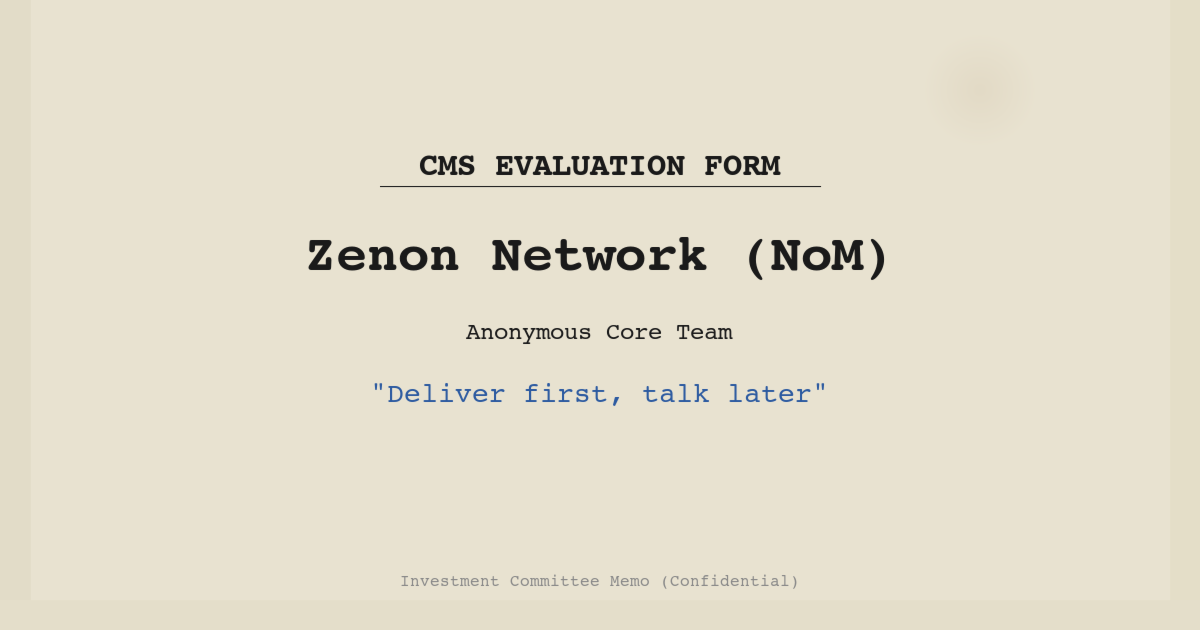
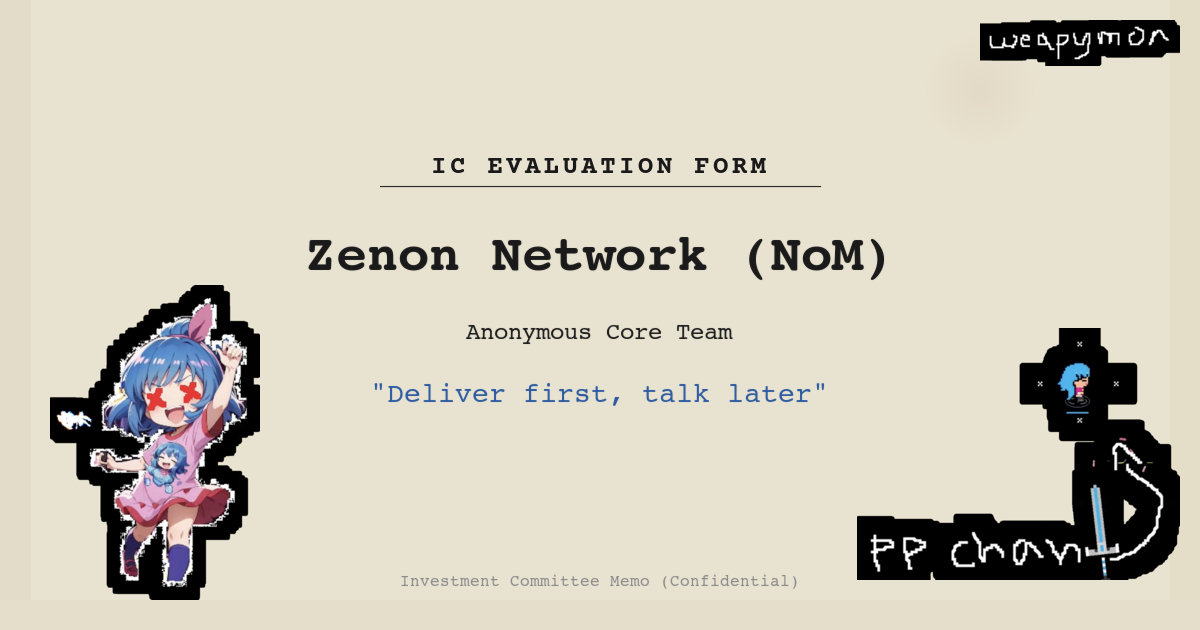
Update base path and URLs for custom domain deployment
Change Vite base from /nom-IC-memo/ to / and update all URLs
from GitHub Pages to deeznnutz.com. Rename CMS to IC in titles.
Resolve merge conflict with Cloudflare Workers config.

diff --git a/index.html b/index.html
@@ -4,43 +4,43 @@
     <meta charset="UTF-8" />
     <meta name="viewport" content="width=device-width, initial-scale=1.0" />
 
-    <title>CMS Evaluation Form — Zenon Network (NoM) | Investment Committee Memo</title>
-    <meta name="description" content="A vintage 1970s-style CMS Evaluation Form for Zenon Network (NoM) — Layer-1 Network of Momentum featuring feeless dual-ledger DLT, Bitcoin interoperability, and community governance." />
+    <title>IC Evaluation Form — Zenon Network (NoM) | Investment Committee Memo</title>
+    <meta name="description" content="A vintage 1970s-style IC Evaluation Form for Zenon Network (NoM) — Layer-1 Network of Momentum featuring feeless dual-ledger DLT, Bitcoin interoperability, and community governance." />
     <meta name="keywords" content="Zenon Network, NoM, Network of Momentum, ZNN, QSR, dual-ledger, meta-DAG, block-lattice, feeless, DLT, Bitcoin interoperability, decentralized, cryptocurrency, evaluation form" />
     <meta name="author" content="Zenon Network Community" />
     <meta name="robots" content="index, follow" />
-    <link rel="canonical" href="https://0x3639.github.io/nom-IC-memo/" />
+    <link rel="canonical" href="https://deeznnutz.com/" />
 
     <!-- Open Graph -->
     <meta property="og:type" content="website" />
-    <meta property="og:title" content="CMS Evaluation Form — Zenon Network (NoM)" />
+    <meta property="og:title" content="IC Evaluation Form — Zenon Network (NoM)" />
     <meta property="og:description" content="Investment committee evaluation memo for Zenon Network — a Layer-1 feeless dual-ledger DLT with Bitcoin interoperability and community governance. Modeled after the famous 1977 Apple Computer evaluation form." />
-    <meta property="og:image" content="https://0x3639.github.io/nom-IC-memo/og-image.png" />
+    <meta property="og:image" content="https://deeznnutz.com/og-image.png" />
     <meta property="og:image:width" content="1200" />
     <meta property="og:image:height" content="630" />
-    <meta property="og:image:alt" content="CMS Evaluation Form for Zenon Network — vintage typewriter style document on aged paper" />
-    <meta property="og:url" content="https://0x3639.github.io/nom-IC-memo/" />
+    <meta property="og:image:alt" content="IC Evaluation Form for Zenon Network — vintage typewriter style document on aged paper" />
+    <meta property="og:url" content="https://deeznnutz.com/" />
     <meta property="og:site_name" content="Zenon Network IC Memo" />
 
     <!-- Twitter Card -->
     <meta name="twitter:card" content="summary_large_image" />
-    <meta name="twitter:title" content="CMS Evaluation Form — Zenon Network (NoM)" />
+    <meta name="twitter:title" content="IC Evaluation Form — Zenon Network (NoM)" />
     <meta name="twitter:description" content="Investment committee evaluation memo for Zenon Network — Layer-1 feeless dual-ledger DLT with Bitcoin interoperability. Modeled after the 1977 Apple Computer evaluation form." />
-    <meta name="twitter:image" content="https://0x3639.github.io/nom-IC-memo/og-image.png" />
-    <meta name="twitter:image:alt" content="CMS Evaluation Form for Zenon Network — vintage typewriter style document on aged paper" />
+    <meta name="twitter:image" content="https://deeznnutz.com/og-image.png" />
+    <meta name="twitter:image:alt" content="IC Evaluation Form for Zenon Network — vintage typewriter style document on aged paper" />
 
     <!-- Favicon -->
-    <link rel="icon" type="image/svg+xml" href="/nom-IC-memo/favicon.svg" />
+    <link rel="icon" type="image/svg+xml" href="/favicon.svg" />
 
     <!-- Structured Data -->
     <script type="application/ld+json">
     {
       "@context": "https://schema.org",
       "@type": "WebPage",
-      "name": "CMS Evaluation Form — Zenon Network (NoM)",
+      "name": "IC Evaluation Form — Zenon Network (NoM)",
       "description": "A vintage 1970s-style investment committee evaluation memo for Zenon Network, a Layer-1 feeless dual-ledger DLT with Bitcoin interoperability.",
-      "url": "https://0x3639.github.io/nom-IC-memo/",
-      "image": "https://0x3639.github.io/nom-IC-memo/og-image.png",
+      "url": "https://deeznnutz.com/",
+      "image": "https://deeznnutz.com/og-image.png",
       "about": {
         "@type": "Organization",
         "name": "Zenon Network",

diff --git a/src/App.jsx b/src/App.jsx
@@ -170,7 +170,7 @@ function App() {
 
         {/* Approved stamp */}
         <img
-          src="/nom-IC-memo/approved-stamp.webp"
+          src="/approved-stamp.webp"
           alt=""
           className="absolute top-[45px] right-[25px] w-[130px] h-[130px] pointer-events-none rotate-[-12deg]"
           style={{ opacity: 0.35 }}
@@ -185,7 +185,7 @@ function App() {
 
         {/* Title */}
         <h1 className="text-center font-typewriter font-bold text-[19px] tracking-[3px] underline underline-offset-4 text-ink mb-5">
-          CMS EVALUATION FORM
+          IC EVALUATION FORM
         </h1>
 
         {/* Row 1: Company / Date */}

diff --git a/zenon_evaluation_form.html b/zenon_evaluation_form.html
@@ -3,7 +3,7 @@
 <head>
 <meta charset="UTF-8">
 <meta name="viewport" content="width=device-width, initial-scale=1.0">
-<title>CMS Evaluation Form — Zenon Network</title>
+<title>IC Evaluation Form — Zenon Network</title>
 <style>
   @import url('https://fonts.googleapis.com/css2?family=Special+Elite&family=Courier+Prime:ital,wght@0,400;0,700;1,400&display=swap');
 
@@ -259,7 +259,7 @@
 <div class="page">
   <div class="corner-note">cc: File<br>4/2/26</div>
 
-  <div class="title">CMS EVALUATION FORM</div>
+  <div class="title">IC EVALUATION FORM</div>
 
   <!-- Row 1: Company / Date -->
   <div class="row-split">

diff --git a/vite.config.js b/vite.config.js
@@ -5,6 +5,6 @@ import tailwindcss from '@tailwindcss/vite'
 import { cloudflare } from "@cloudflare/vite-plugin";
 
 export default defineConfig({
-  base: '/nom-IC-memo/',
+  base: '/',
   plugins: [react(), tailwindcss(), cloudflare()],
 })

diff --git a/README.md b/README.md
@@ -1,8 +1,8 @@
-# Zenon Network — CMS Evaluation Form
+# Zenon Network — IC Evaluation Form
 
-A React + Tailwind CSS site that recreates a vintage 1970s-style "CMS Evaluation Form" — modeled after the famous 1977 Apple Computer evaluation document — themed for the [Zenon Network](https://zenon.network) (Network of Momentum) cryptocurrency project.
+A React + Tailwind CSS site that recreates a vintage 1970s-style "IC Evaluation Form" — modeled after the famous 1977 Apple Computer evaluation document — themed for the [Zenon Network](https://zenon.network) (Network of Momentum) cryptocurrency project.
 
-**Live site:** [www.0x3639.com/nom-IC-memo/](https://www.0x3639.com/nom-IC-memo/)
+**Live site:** [deeznnutz.com](https://deeznnutz.com/)
 
 ![Screenshot](Screenshot%202026-04-02%20at%206.04.30%20AM.png)
 

diff --git a/CLAUDE.md b/CLAUDE.md
@@ -4,7 +4,7 @@ This file provides guidance to Claude Code (claude.ai/code) when working with co
 
 ## Project Overview
 
-A React + Tailwind CSS site that recreates a vintage 1970s-style "CMS Evaluation Form" — modeled after the famous 1977 Apple Computer evaluation document (screenshot included as reference) — themed for the Zenon Network (NoM) cryptocurrency project.
+A React + Tailwind CSS site that recreates a vintage 1970s-style "IC Evaluation Form" — modeled after the famous 1977 Apple Computer evaluation document (screenshot included as reference) — themed for the Zenon Network (NoM) cryptocurrency project.
 
 ## Commands
 
